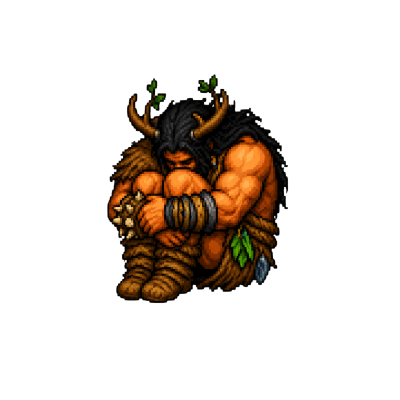
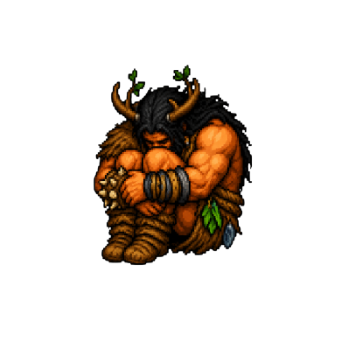
add some text

diff --git a/src/finalassignment/GraphicDraw.java b/src/finalassignment/GraphicDraw.java
@@ -36,7 +36,6 @@ public class GraphicDraw extends PApplet{
          BackGround = this.loadImage("images/StartingPage.png");
          StartingEgg = this.loadImage("images/WorldEgg.png");
          pangu = new PanGu(this, 384, 254);
-         PG = new PanGu(this, 600, 600);
      }
      
      public void draw(){
@@ -57,22 +56,21 @@ public class GraphicDraw extends PApplet{
         }else if (stage == 1){//if the second stage
             this.image(StartingEgg, FixedPointX, FixedPointY);
             pangu.draw();//draw the main character
-            PG.draw();
             fill(255);//set the text color to white
             textSize(50);//set the text size
             int TextpointX = 75;
             int TextpointY = 113;
-            String Sentence1 = "In the beginning, the world was a chaotic mass";
-            String Sentence2 = "It shaped like an egg.";
-            String Sentence3 = "Pangu was born from the egg";
-            String Sentence4 = "He slept inside for eightenn thousands years";
-            String Sentence5 = "One day, he suddently wake up";
-            String Sentence6 = "He felt the world was too dark";
-            String Sentence7 = "He used axes to cleave the darkness before him";
-            String Sentence8 = "";
-            String Sentence9 = "";
-            text(Sentence1, TextpointX, TextpointY);
-            
+            String [] StateOneSentence = {
+                    "In the beginning, the world was a chaotic mass",//0
+                    "It shaped like an egg.",//1
+                    "Pangu was born from the egg",//2
+                    "He slept inside for eightenn thousands years",//3
+                    "One day, he suddently wake up",//4
+                    "He felt the world was too dark",//5
+                    "He used axes to cleave the darkness before him"//6
+            };
+            text (StateOneSentence[Stage1SentenceCount], TextpointX, TextpointY);
+            /**
             if (keyPressed) {
                 if (keyCode == LEFT) {
                   pangu.move(-5, 0);
@@ -84,27 +82,38 @@ public class GraphicDraw extends PApplet{
                   pangu.move(0, 5);
                 }
             }
-            
             if (pangu.isCollidingWith(PG)){
                 fill(255,0,0);
                 this.text("oouch1", PG.x, PG.y);
-            }
+            }**/
         }
      }
-     
+     public int Stage1SentenceCount = 0;
      public void keyPressed(){
          if (stage == 0){//if  fist stage
             if (key == ' '){
                 stage = 1;
             }
         }else if(stage == 1){
+            if (key == ' '){
+                Stage1SentenceCount++;
+                if (Stage1SentenceCount == 4){
+                    pangu.changeImage("images/man.png");
+                }
+                if (Stage1SentenceCount == 6){
+                    stage = 2;
+                }
+            }
+        }else if (stage == 2){
             
+        }else{
+            stage = 0;
         }
      }
      public void mousePressed(){
          if (admin){
             System.out.println(mouseX+ " ," + mouseY);
-            //pangu.moveTo(mouseX, mouseY);
+            pangu.moveTo(mouseX, mouseY);
          }
      }
 }

diff --git a/src/finalassignment/PanGu.java b/src/finalassignment/PanGu.java
@@ -28,6 +28,9 @@ public class PanGu extends Person{
         x += dx;
         y += dy;
     }
+    public void changeImage (String path){
+        this.image = app.loadImage(path);
+    }
     public void draw() {
         app.image(image, x, y);
     }